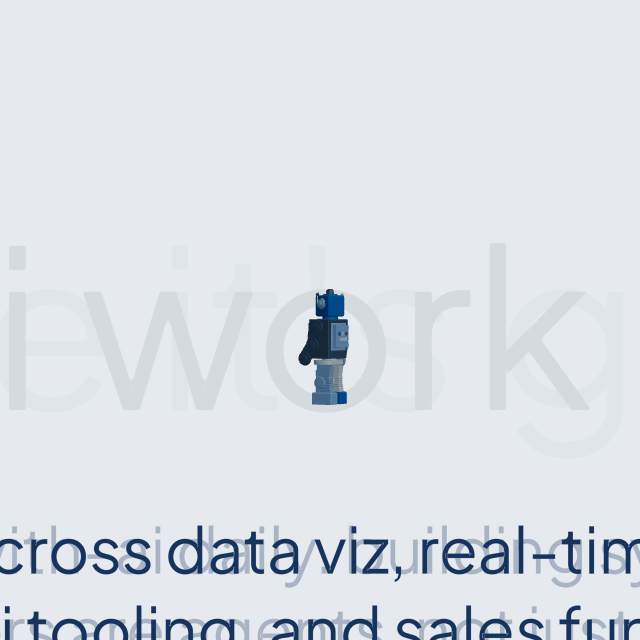
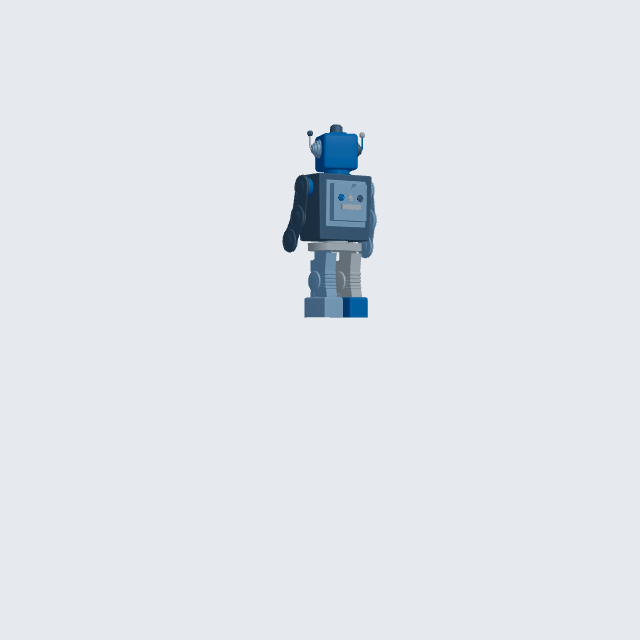
feat(about): re-capture fallback poster at storm-peak pose (scroll 0.25)

Changed region(s): [[0.0, 0.8125, 1.0, 1.0], [0.4375, 0.1875, 0.5938, 0.6562]]

diff --git a/docs/superpowers/plans/2026-05-21-about-storm-cinematic.md b/docs/superpowers/plans/2026-05-21-about-storm-cinematic.md
@@ -1272,17 +1272,17 @@ Co-Authored-By: Claude Opus 4.7 <noreply@anthropic.com>"
 
 The new peak pose (scroll 0.25) shows a larger, front-facing robot than v1's poster. The poster must be re-captured against the new scene so the fallback image visually matches what desktop users see at the peak.
 
-- [ ] **Step 1: Build the site so the new About scene is available**
+- [x] **Step 1: Build the site so the new About scene is available**
 
 Run: `npm run build`
 Expected: clean build.
 
-- [ ] **Step 2: Start the preview server in the background**
+- [x] **Step 2: Start the preview server in the background**
 
 Run: `npm run preview -- --port 4173 &`
 Wait until the server prints "Local: http://localhost:4173/".
 
-- [ ] **Step 3: Adapt the capture script if needed**
+- [x] **Step 3: Adapt the capture script if needed**
 
 Read `scripts/capture-about-poster.mjs`. It should:
 1. Launch Playwright Chromium at viewport 1440×900
@@ -1304,12 +1304,12 @@ await page.evaluate((y) => window.scrollTo(0, y), targetScroll)
 await page.waitForTimeout(1500)
 ```
 
-- [ ] **Step 4: Run the capture**
+- [x] **Step 4: Run the capture**
 
 Run: `node scripts/capture-about-poster.mjs`
 Expected: writes both files. Manually inspect the PNG — robot should occupy ~25% of the frame, front-facing, on the mist-blue background.
 
-- [ ] **Step 5: Stop the preview server**
+- [x] **Step 5: Stop the preview server**
 
 Run: `kill %1` (or whatever job number the preview is)
 
